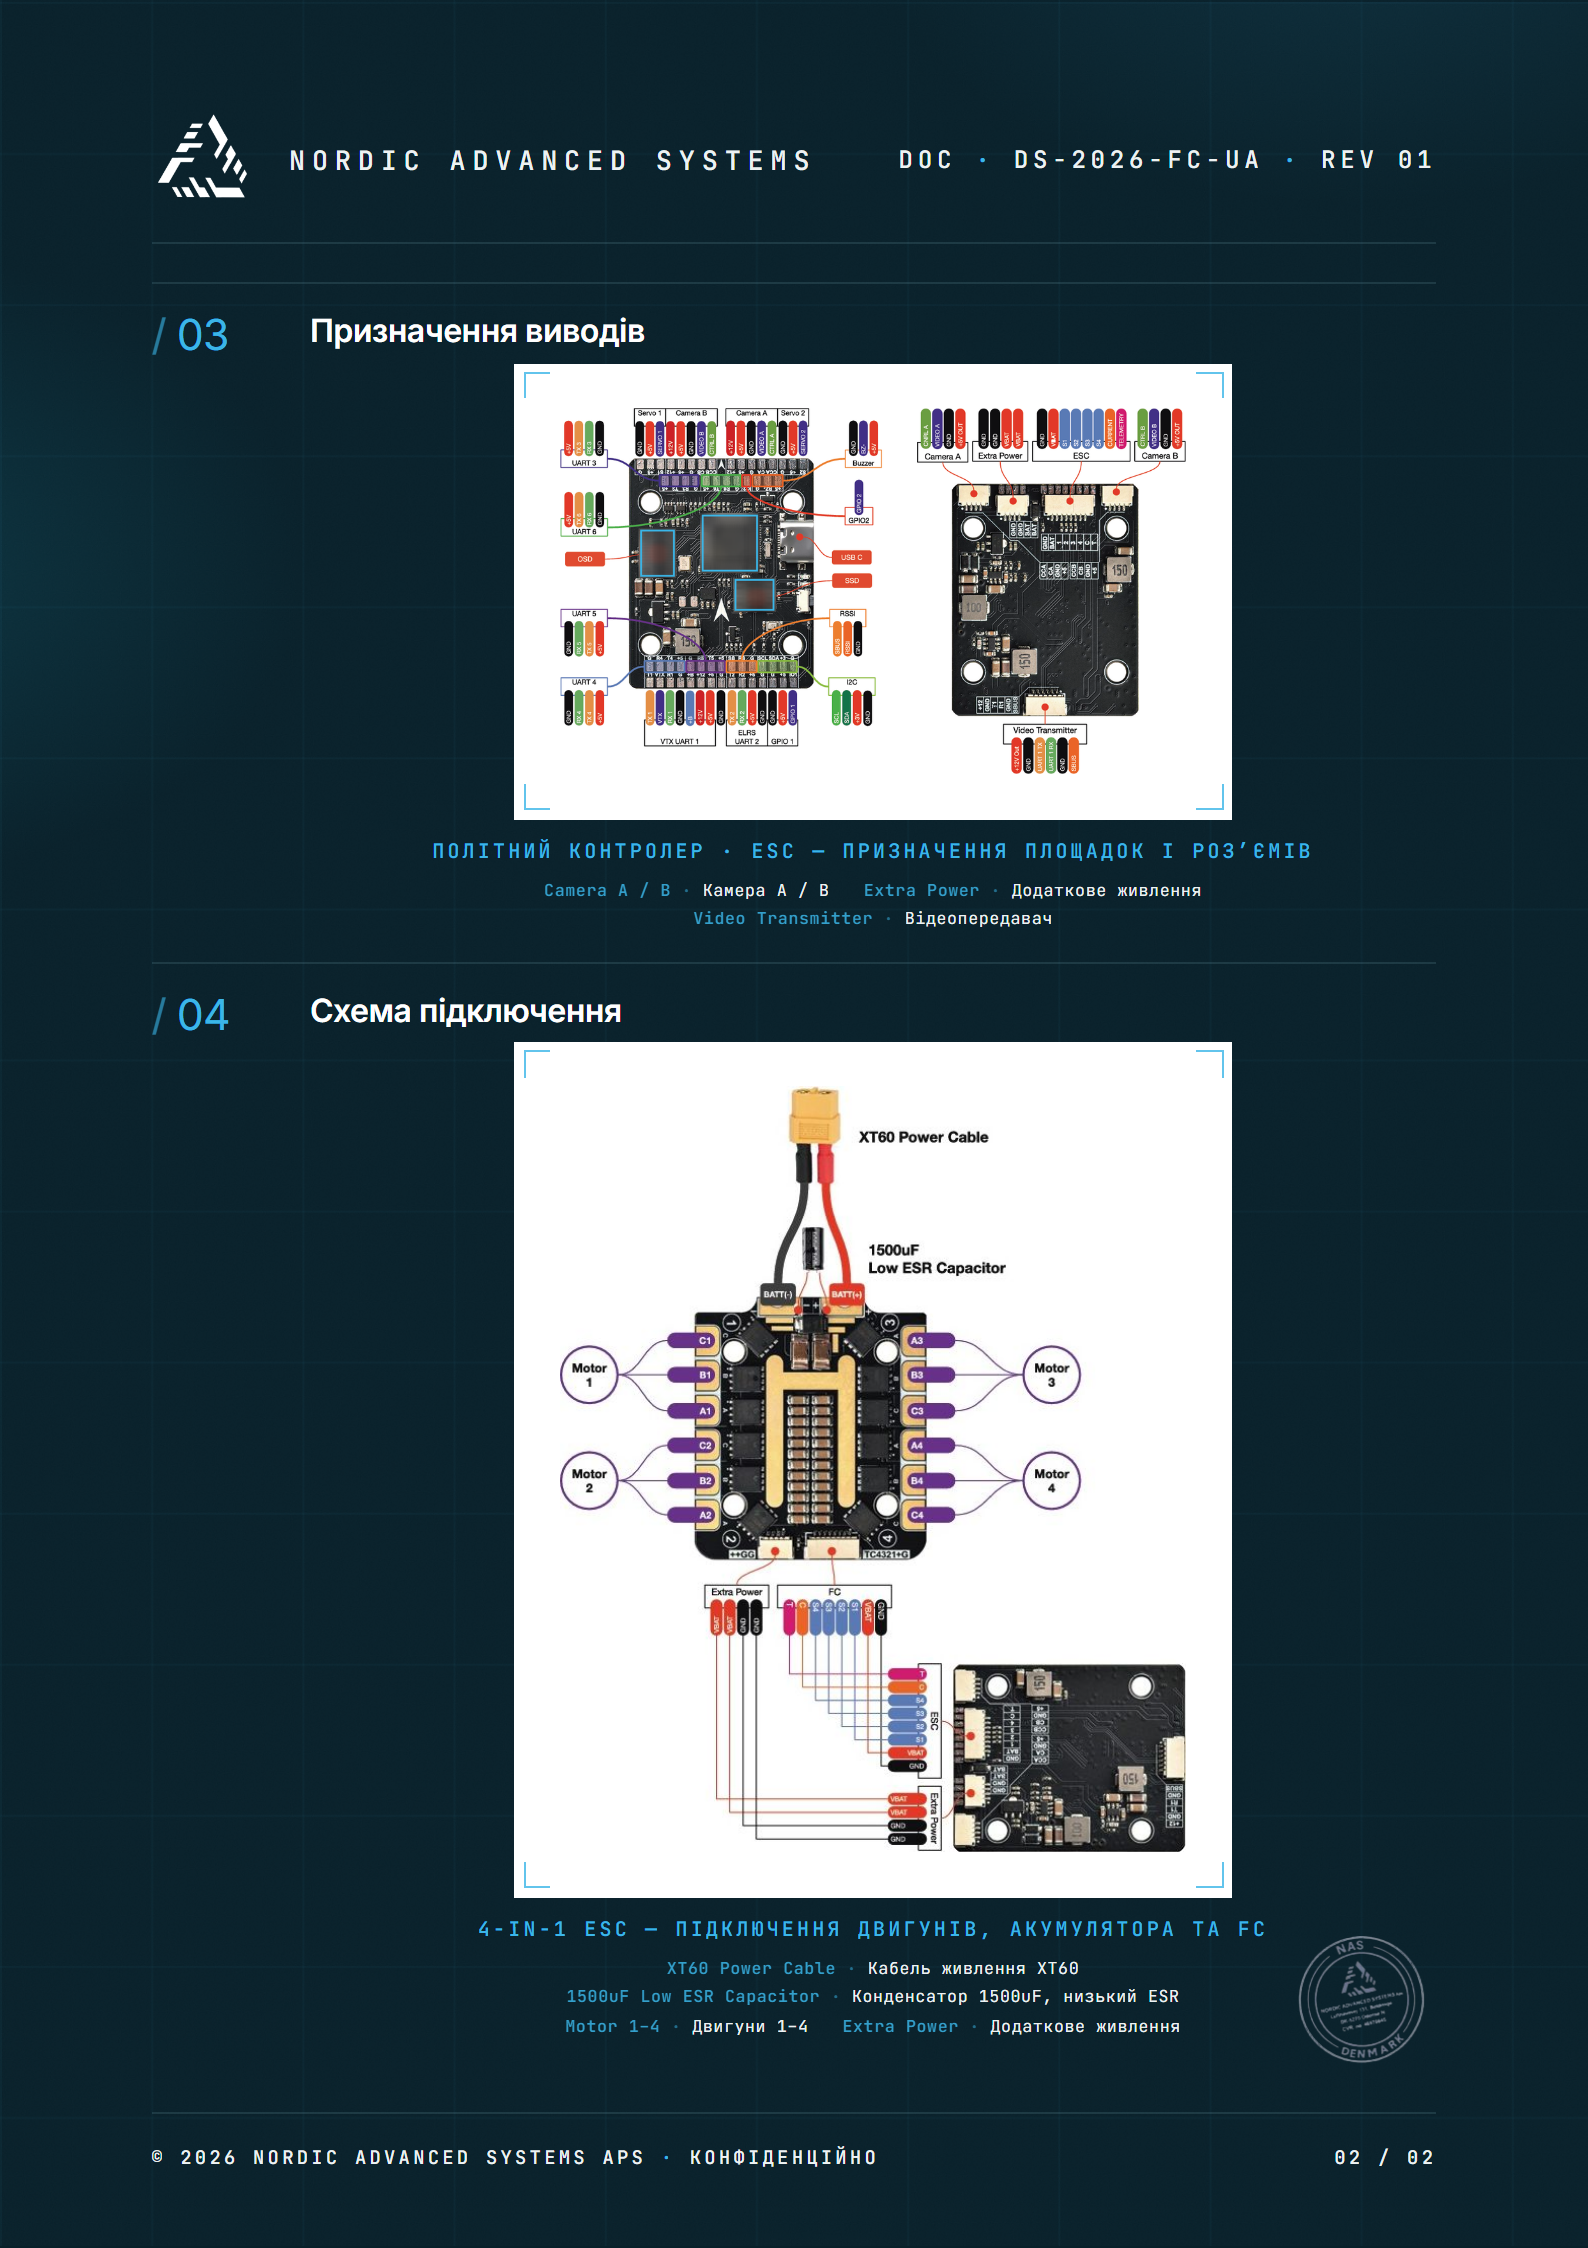
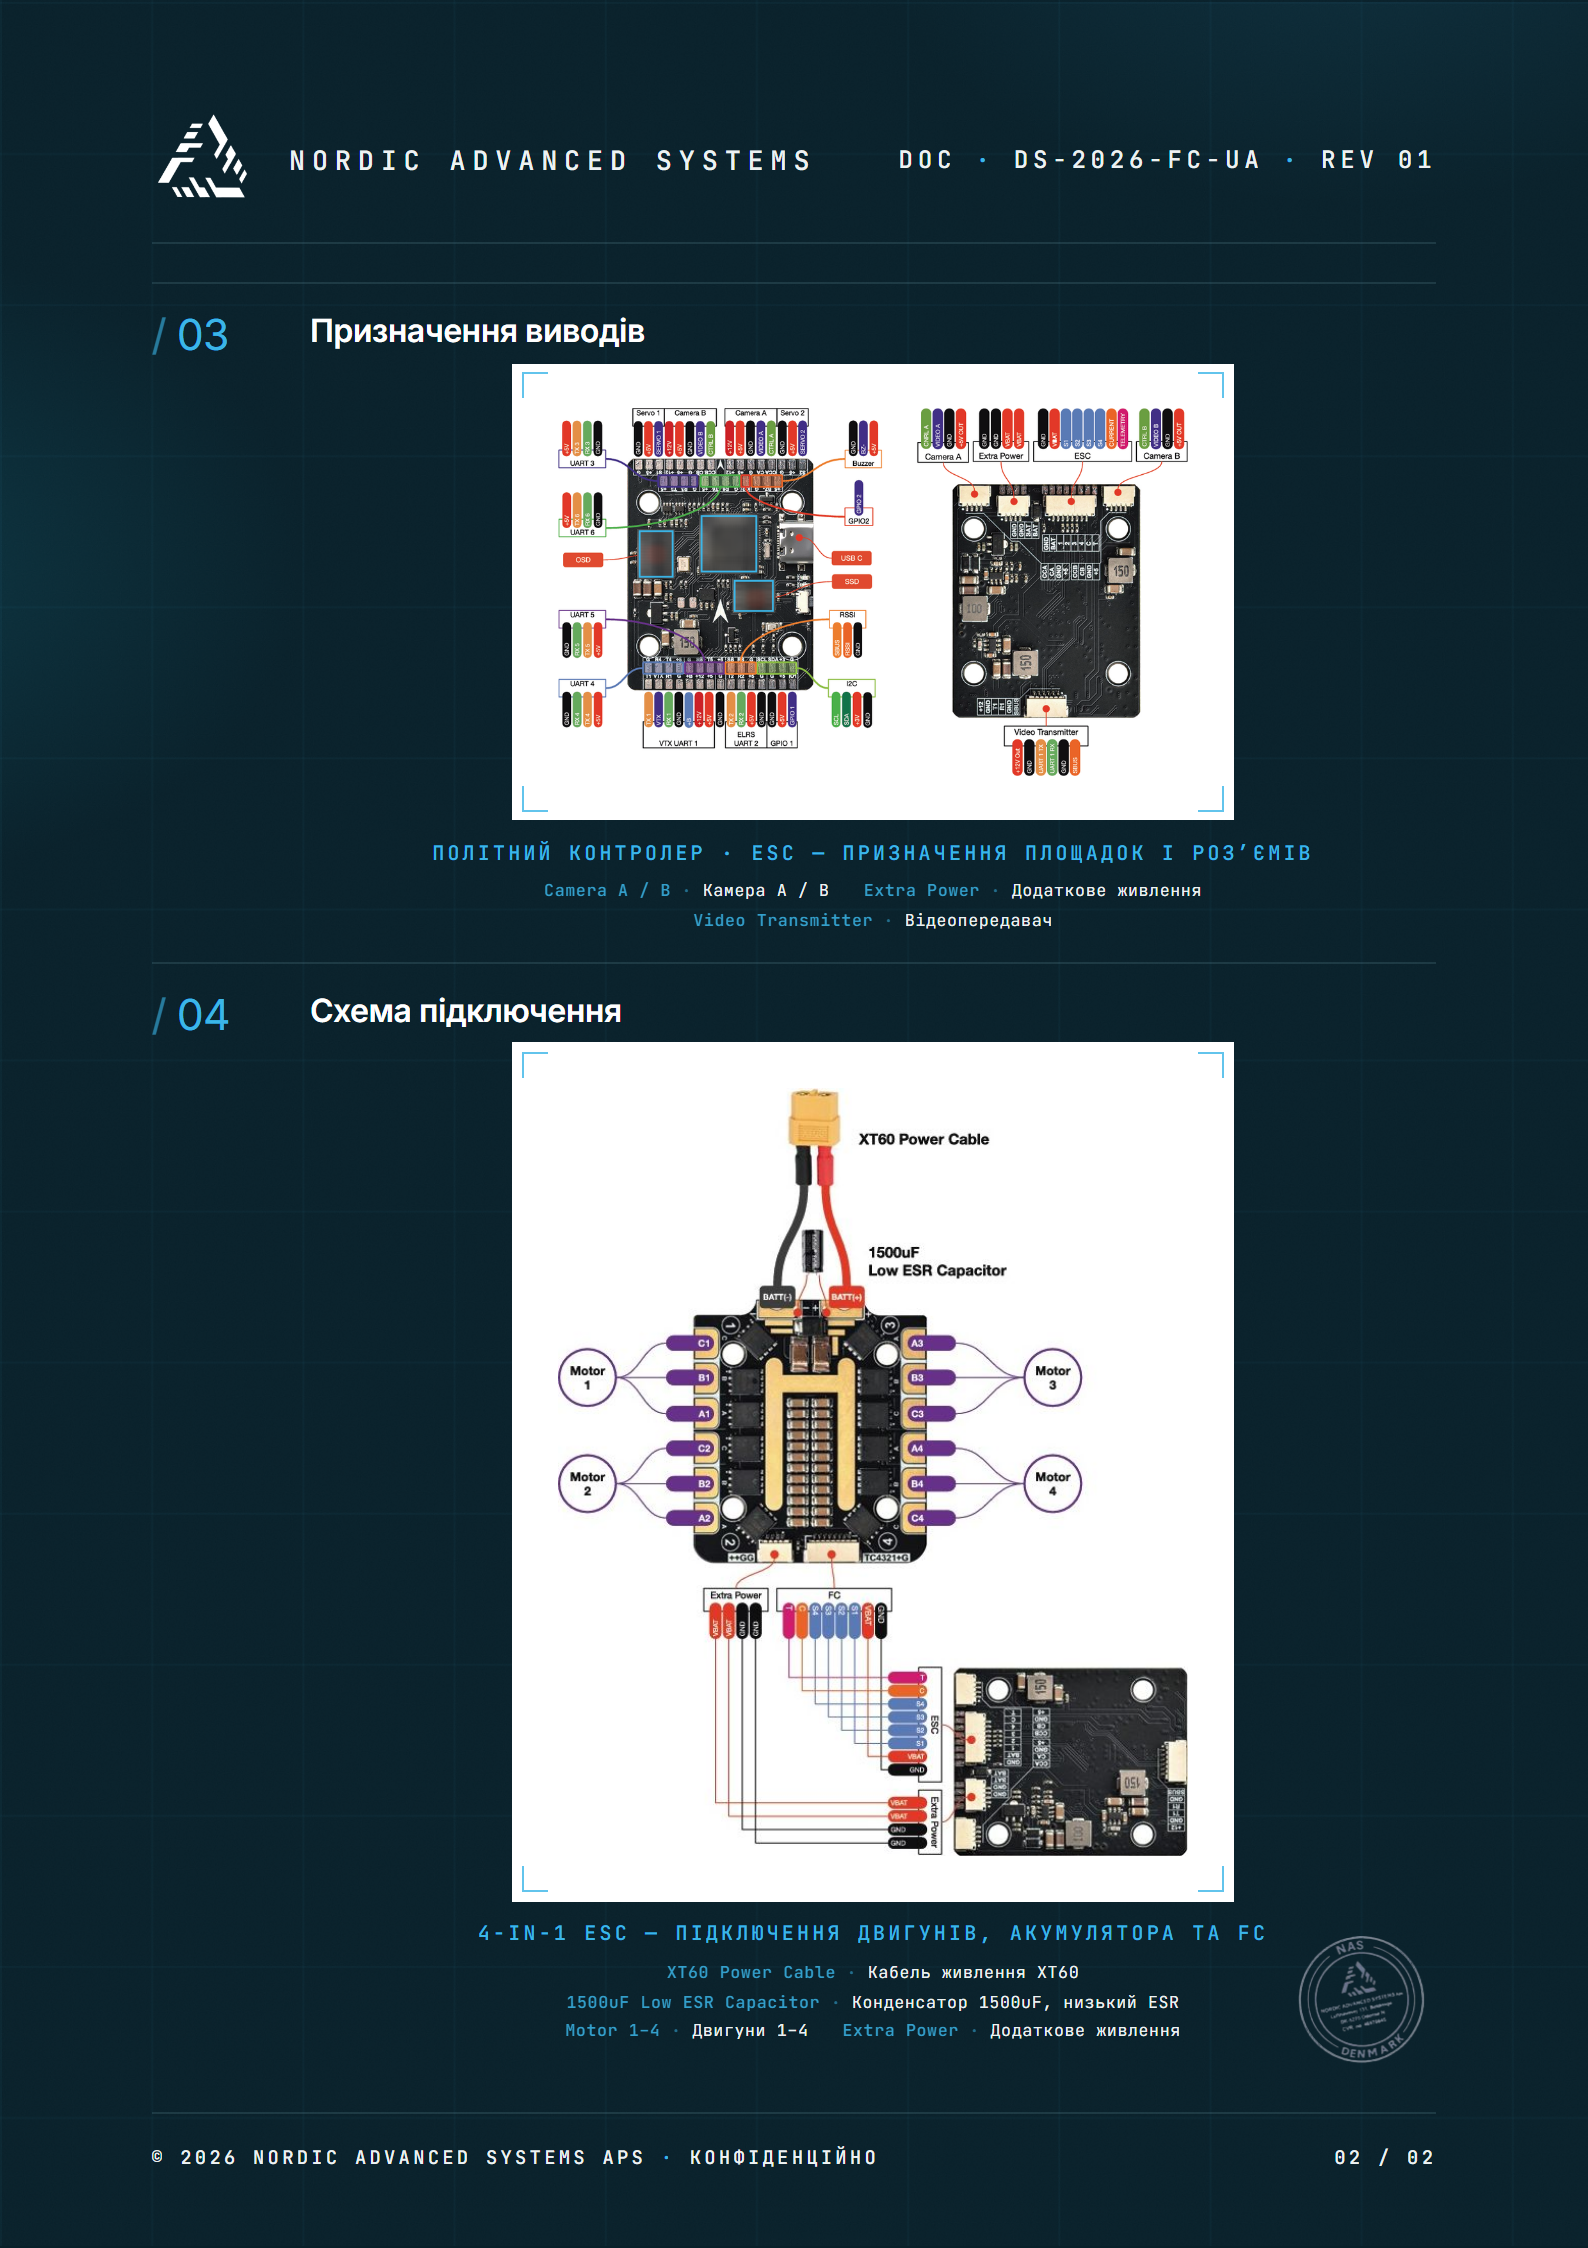
fix(datasheet): solve diagram width per language, not once for both
Reverts the pinned DIAGRAM_W_MM. English is the primary document — it
goes to the website, to partners and to the trade fair — and pinning the
width to the constrained language cost it 11% of its diagram size plus
31mm of dead space on page 2. That is the wrong trade for matching a
single-market variant, and the two sheets are never seen side by side.

Ukrainian legitimately lands smaller: its page 2 carries translation keys
under the figures that the English page does not.

What must match is the two panels WITHIN a page — they are one component
used twice. assertPanelsMatch() still enforces width, centre, stroke and
padding there, per variant, and is unchanged. Fault-injecting a 5mm
difference between the two figures fails the build, so the check is live
rather than decorative.

Divergence across languages is now reported instead of enforced: every
build prints the width it solved for its language, --solve-width prints
the convergence trace, and --both prints both widths against each other
and lists the deltas. It is visible, not silent. --both still fails on
the things that must hold across variants: matching revisions, the -UA
suffix, no Space Grotesk in the Ukrainian file, and the two panels on a
page sharing a centre.

English restored exactly: brand/ds-dronestack-p1.png and p2.png are now
byte-identical to commit 61e8834, the last build before the Ukrainian
work started. Diagrams back to 93.64mm in a 105.64mm plate, page 2 back
to 12.0mm free above the footer rule.
[…]

diff --git a/brand/PRINT_ROUTES.md b/brand/PRINT_ROUTES.md
@@ -57,8 +57,13 @@ re-convert.*
 Send `NAS_DATASHEET_DRONESTACK_2026_UA_CMYK.pdf` — the same document in
 Ukrainian, same revision, document number `DS-2026-FC-UA`. Identical print
 route: PDF/X-3:2003, DeviceCMYK, FOGRA39 embedded, live vector text. Both
-language variants carry the same two diagrams at the same size and centre, so
-the sheets can be laid side by side.
+Both variants use the same diagram artwork. They do NOT necessarily print it at
+the same size: each language solves its own page-2 width, because the Ukrainian
+sheet carries translation keys under the figures that the English one does not.
+English is the primary document — it goes to the website, to partners and to the
+trade fair — and is not shrunk to match a single-market translation. Within each
+sheet the two panels are still one component used twice: same width, same
+centre, enforced.
 
 It sets its **body copy in Inter, not Space Grotesk**. Space Grotesk has no
 Cyrillic glyphs at all — it ships latin, latin-ext and vietnamese subsets only —
@@ -79,8 +84,13 @@ Build: `node brand/build_datasheet_dronestack.mjs`             (English)
 Build: `node brand/build_datasheet_dronestack.mjs --lang=uk`   (Ukrainian)
 Build: `node brand/build_datasheet_dronestack.mjs --both`      (both, then compared side by side)
 
-`--both` prints a variant comparison and fails if the diagram panels, the
-revision or the `-UA` suffix ever drift apart.
+`--both` prints a variant comparison. It reports any difference in diagram size
+between the languages — expected, but never silent — and fails on the things
+that must hold: matching revisions, the `-UA` suffix, no Space Grotesk in the
+Ukrainian file, and the two panels on a page sharing a centre.
+
+`--solve-width` prints the convergence trace for the active language, for when
+the artwork or the copy changes and you want to see what the page settled on.
 
 ---
 
